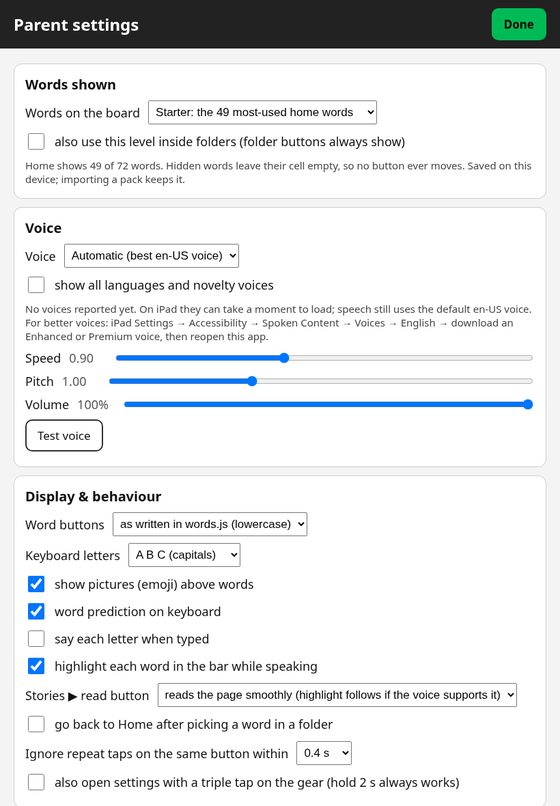
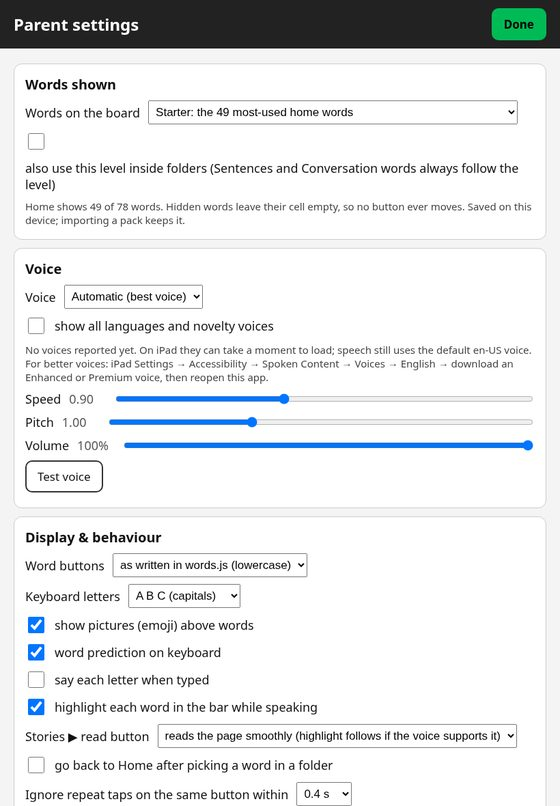
ANOVA 1.4.0: five levels, word endings, saved level carries over; new growth and endings images

Changed region(s): [[0.0304, 0.1241, 0.9714, 1.0]]

diff --git a/anova/index.html b/anova/index.html
@@ -65,7 +65,7 @@
     <h2 class="t-verb">How it works</h2>
     <ul class="tiles">
       <li>Tap a word to hear it and add it to the message bar. Tap "speak" to say the whole message.</li>
-      <li>Buttons never move. Words are shown in levels (Starter, Middle, Full, or Custom), and a hidden word leaves an empty cell, so motor memory carries over as the board grows.</li>
+      <li>Buttons never move. Words are shown in levels (Starter, Middle, Expanded, Sentences, Full, or Custom), and a hidden word leaves an empty cell, so motor memory carries over as the board grows.</li>
       <li>Colors follow word type (a modified Fitzgerald key).</li>
       <li>Spelling keyboard (A to Z) with word prediction and a backspace key. Tapping . or ? reads the typed sentence aloud.</li>
       <li>Read-along stories with pictures. Turning a page never speaks; tapping a word or "read" does.</li>
@@ -78,19 +78,26 @@
     </div>
 
     <h2 class="t-descriptor">How the board grows</h2>
-    <p>The board grows with the child without ever moving a button.</p>
+    <p>The board grows with the child without ever moving a button. It has about 383 words in five levels.</p>
     <ul class="tiles">
-      <li>Three word levels. On the home board, Starter shows the 49 most-used words, Middle shows 66, and Full shows all 72. Folder buttons always show.</li>
-      <li>Levels can apply inside folders too (it's off by default). At Starter, for example, the animals folder shows 42 of its 89 animals.</li>
+      <li>Five word levels. On the home board, Starter shows the 49 most-used words, Middle shows 66, and Expanded shows 72. Sentences adds a, the, when and word endings for 78 home words, plus a "little words" folder. Full adds Conversation: a "time" folder, thinking and school words, and social phrases.</li>
+      <li>Word endings: tap -s, -ing, -ed, or 's after a word to change it, so jump becomes jumping, cry becomes cries, go becomes went, and child becomes children. Delete takes the ending off first.</li>
+      <li>Updates never surprise the child. A saved level carries over, and a board that was on Full before 1.4.0 stays at Expanded, so no new words appear until a parent picks a higher level.</li>
+      <li>Levels can apply inside folders too (it's off by default). At Starter, for example, the animals folder shows 42 of its 89 animals. Sentences and Conversation words always follow the level.</li>
       <li>Single words can be turned on or off in parent settings, so you can add one new word at a time ahead of the next level.</li>
       <li>Buttons never move. A hidden word leaves an empty cell, and new words only fill empty cells, so motor memory carries over.</li>
-      <li>Opposites sit together: more and less, up and down, open and close, big and little, hot and cold, give and take.</li>
+      <li>Opposites sit together: more and less, up and down, open and close, big and little, hot and cold, yesterday and tomorrow, before and after.</li>
       <li>New words are added to the app's word list and arrive with the next update. An optional pack can add words for one child on one device. An opt-in usage log, kept on the device, shows which words get used, so you know when to show more.</li>
     </ul>
     <figure>
-      <img src="../assets/img/anova/growth-starter-middle-full.jpg" width="1790" height="410" loading="lazy"
-           alt="The same home board three times, at the starter, middle, and full levels. More buttons appear at each level, and every button stays in the same place.">
-      <figcaption>Home at Starter, Middle, and Full. Buttons keep their places as words are added.</figcaption>
+      <img src="../assets/img/anova/growth-home-levels.jpg" width="1790" height="830" loading="lazy"
+           alt="The same home board five times, at the Starter, Middle, Expanded, Sentences, and Full levels. More buttons appear at each level, and every button stays in the same place.">
+      <figcaption>Home at Starter, Middle, Expanded, Sentences, and Full. Buttons keep their places as words are added.</figcaption>
+    </figure>
+    <figure>
+      <img src="../assets/img/anova/endings-in-use.jpg" width="900" height="625" loading="lazy"
+           alt="The home board with the message bar reading I like dogs, after tapping dog and then the -s ending button.">
+      <figcaption>Word endings: "dog" plus -s becomes "dogs".</figcaption>
     </figure>
 
     <h2 class="t-descriptor">Why it's free</h2>
@@ -100,7 +107,7 @@
     <p>Plain HTML, CSS, and JavaScript. No build step, frameworks, ads, analytics, or network calls. Installs as a home-screen web app and works offline. MIT license.</p>
 
     <h2 class="t-social">Status</h2>
-    <p>Version 1.3.3, started September 2026 and actively developed. Recent work: word-level menu labels that count words straight from the board; all words (starter, middle, and full tiers) built into the app with no import needed; a bigger home board with core words (pronouns, is/are/am, to, less, quick replies, protest phrases, who/why) and opposites side by side; a 9x10 animals folder with 89 animals in A-Z order; and full-color illustrated stories.</p>
+    <p>Version 1.4.0, started September 2026 and actively developed. Recent work: two new word levels (Sentences and Conversation), word endings (-s, -ing, -ed, 's) with irregular forms, "little words" and "time" folders, the "where" folder renamed to "places", a more natural voice picked automatically, and a 9x10 home board with core words and opposites side by side.</p>
 
     <h2 class="t-people">About the name</h2>
     <p>ANOVA is a nod to analysis of variance, the statistics term. Language learning varies a lot from person to person, and the board is built to adapt to that. The app itself doesn't do any statistics.</p>
